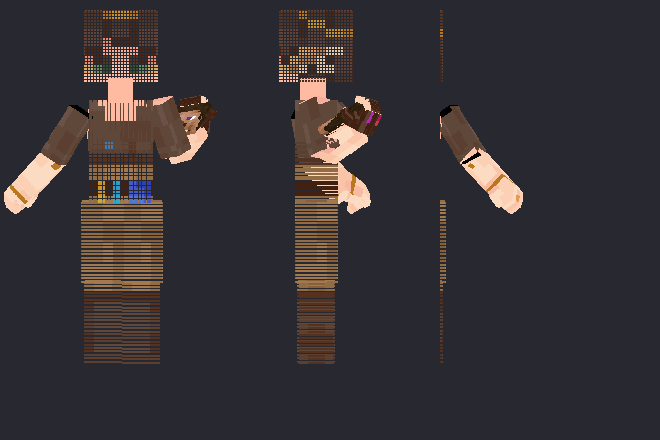
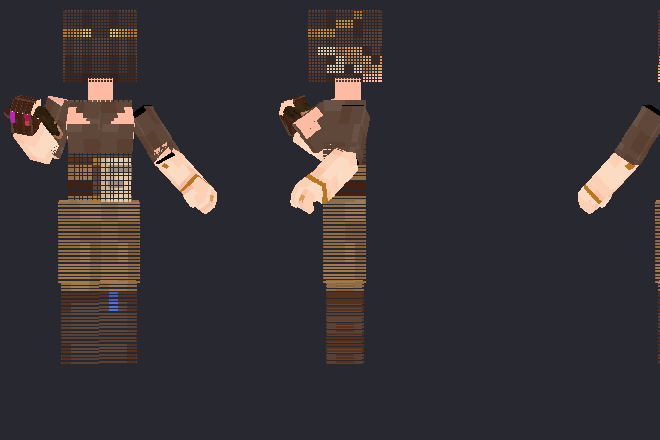
models: Janet faces -Z (ModelEngine front), converter --yaw; redeployed
Claude-Session: https://claude.ai/code/session_01LEqCpLCHF2ZqbNRSz75XnK

diff --git a/models/tools/bdengine2bbmodel.py b/models/tools/bdengine2bbmodel.py
@@ -66,7 +66,8 @@ def main():
     ap = argparse.ArgumentParser()
     ap.add_argument('src'); ap.add_argument('out'); ap.add_argument('--name', required=True)
     ap.add_argument('--skins', default='skins'); ap.add_argument('--scale', type=float, default=1.0)
-    ap.add_argument('--head-y', default='-0.5,0'); ap.add_argument('--preview')
+    ap.add_argument('--head-y', default='-0.5,0')
+    ap.add_argument('--yaw', type=float, default=180.0, help='поворот всей модели вокруг Y: ModelEngine считает передом −Z, BDEngine — +Z'); ap.add_argument('--preview')
     a = ap.parse_args()
     global HEAD_Y
     HEAD_Y = tuple(float(x) for x in a.head_y.split(','))
@@ -94,6 +95,8 @@ def main():
 
     groups, elements, heads = [], [], []
     root_m = np.eye(4); root_m[:3, :3] *= a.scale
+    cy, sy = math.cos(math.radians(a.yaw)), math.sin(math.radians(a.yaw))
+    root_m = np.array([[cy, 0, sy, 0], [0, 1, 0, 0], [-sy, 0, cy, 0], [0, 0, 0, 1]]) @ root_m
     used_names = {}
 
     def uniq(n):

diff --git a/models/README.md b/models/README.md
@@ -16,7 +16,7 @@
 41 голова игрока (item_display) → кости-головы (куб 8 px + слой шляпы), коллекции BDEngine (голова, тело, ноги,
 руки, предплечья, кисти, пальцы и их «согнутые» фаланги) → кости с опорой в суставе — их можно анимировать
 в Blockbench. Скины собраны в один атлас 256×256 (24 вшитых в файл + 8 скачанных с textures.minecraft.net,
-копии в `janet/skins/`). Рост ≈ 2 блока. `janet/preview.png` — грубый рендер (спереди/сзади).
+копии в `janet/skins/`). Рост ≈ 2 блока. Модель развёрнута на 180° (`--yaw 180`, по умолчанию): у ModelEngine перед — −Z, в BDEngine — +Z. `janet/preview.png` — грубый рендер (спереди/сзади).
 Анимаций в исходнике нет — для NPC её можно дорисовать в Blockbench (назвать `idle`).
 
     python3 tools/bdengine2bbmodel.py source/Janet.bdengine janet/janet.bbmodel --name janet --skins janet/skins --preview janet/preview.png
